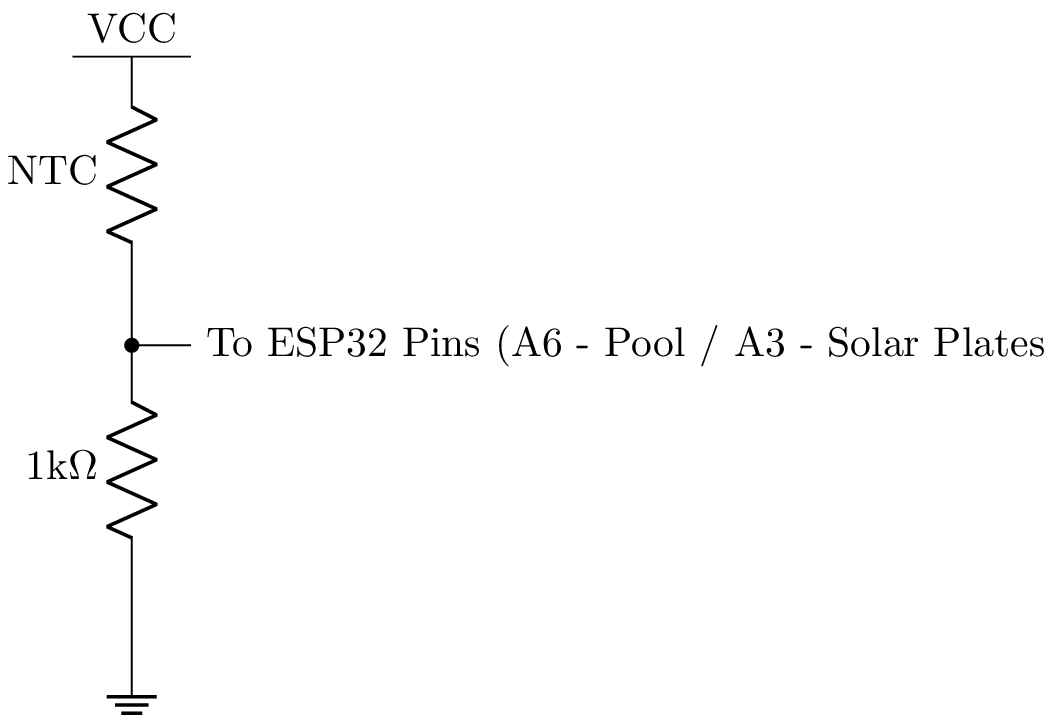
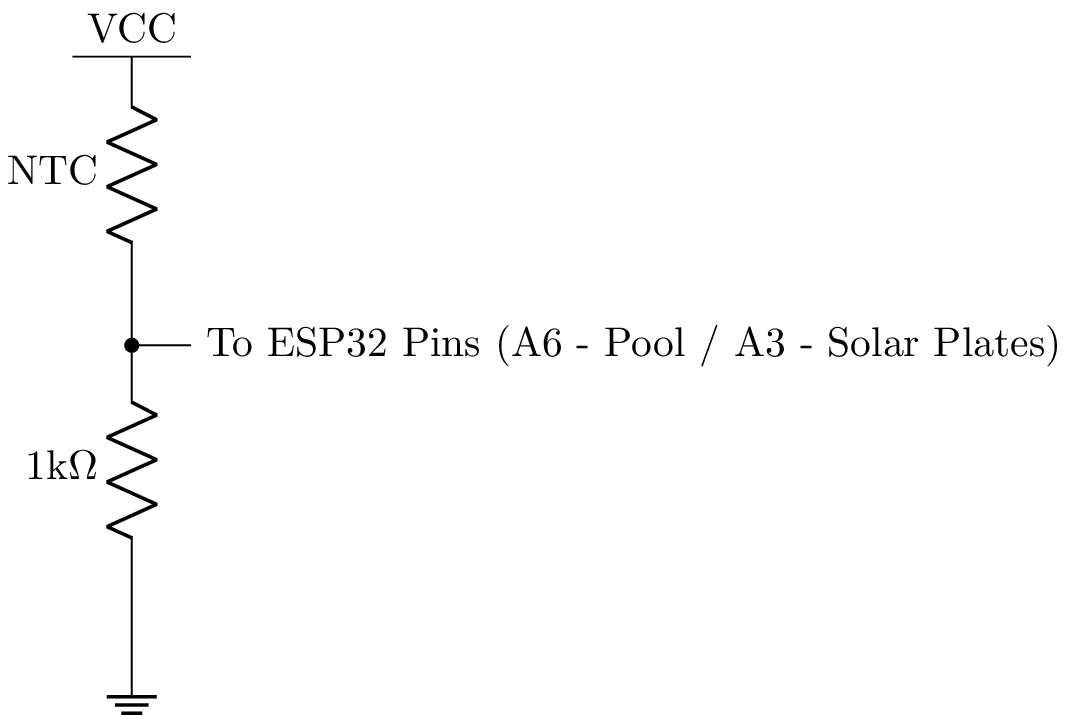
First Version

diff --git a/figures/figNTC.tex b/figures/figNTC.tex
@@ -9,7 +9,7 @@
     \draw (0, 2.5) node[circ, anchor=south] (esp32pin) {}; % Node with small segment added
     \draw (esp32pin) -- ++(0.5,0); % Small segment
     \node[anchor=west] at (esp32pin) {}; % Node label
-    \node[anchor=west] at ($(esp32pin) + (0.5,0)$) {To ESP32 Pins (A6 - Pool / A3 - Solar Plates}; % Node label with displacement
+    \node[anchor=west] at ($(esp32pin) + (0.5,0)$) {To ESP32 Pins (A6 - Pool / A3 - Solar Plates)}; % Node label with displacement
 \end{circuitikz}
 
 \end{document}
